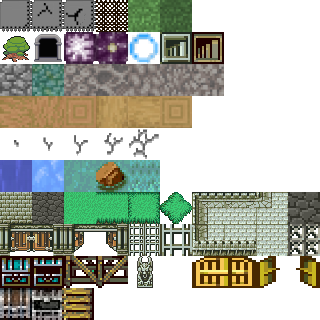
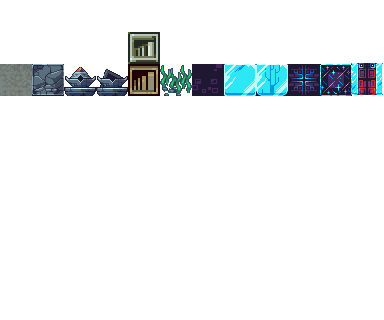
Обновление тайлсета для карты

diff --git a/utils/settings.py b/utils/settings.py
@@ -78,36 +78,60 @@ FADE_DURATION = 500
 
 FLOOR_THEMES = {
     1: {
-        "floor": (0, 5),
-        "wall": (0, 0),
-        "portal": (1, 1),
-        "chest_closed": (9, 0),
-        "chest_open": (9, 1),
-        "decoration": (1, 0),
+        "floor": (0, 0),
+        "wall": (0, 1),
+        "chest_closed": (0, 2),
+        "chest_open": (0, 3),
+        "portal": (0, 4),
+        "decoration": (0, 5),
+        "battle_floor": (0, 6),
+        "battle_wall": (0, 7),
+        "battle_decor": (0, 8),
+        "boss_floor": (0, 9),
+        "boss_wall": (0, 10),
+        "boss_decor": (0, 11),
     },
     2: {
-        "floor": (7, 8),
-        "wall": (6, 0),
-        "portal": (1, 5),
-        "chest_closed": (9, 0),
-        "chest_open": (9, 1),
-        "decoration": (8, 4),
+        "floor": (1, 0),
+        "wall": (1, 1),
+        "chest_closed": (1, 2),
+        "chest_open": (1, 3),
+        "portal": (1, 4),
+        "decoration": (1, 5),
+        "battle_floor": (1, 6),
+        "battle_wall": (1, 7),
+        "battle_decor": (1, 8),
+        "boss_floor": (1, 9),
+        "boss_wall": (1, 10),
+        "boss_decor": (1, 11),
     },
     3: {
-        "floor": (5, 1),
-        "wall": (5, 3),
-        "portal": (1, 6),
-        "chest_closed": (8, 0),
-        "chest_open": (8, 1),
-        "decoration": (6, 5),
+        "floor": (2, 0),
+        "wall": (2, 1),
+        "chest_closed": (2, 2),
+        "chest_open": (2, 3),
+        "portal": (2, 4),
+        "decoration": (2, 5),
+        "battle_floor": (2, 6),
+        "battle_wall": (2, 7),
+        "battle_decor": (2, 8),
+        "boss_floor": (2, 9),
+        "boss_wall": (2, 10),
+        "boss_decor": (2, 11),
     },
     4: {
-        "floor": (6, 9),
-        "wall": (2, 3),
-        "portal": (1, 2),
-        "chest_closed": (8, 0),
-        "chest_open": (8, 1),
-        "decoration": (4, 4),
+        "floor": (3, 0),
+        "wall": (3, 1),
+        "chest_closed": (3, 2),
+        "chest_open": (3, 3),
+        "portal": (3, 4),
+        "decoration": (3, 5),
+        "battle_floor": (3, 6),
+        "battle_wall": (3, 7),
+        "battle_decor": (3, 8),
+        "boss_floor": (3, 9),
+        "boss_wall": (3, 10),
+        "boss_decor": (3, 11),
     },
 }
 

diff --git a/map/tilemap.py b/map/tilemap.py
@@ -50,16 +50,16 @@ class Block(pygame.sprite.Sprite):
 
 class Ground(pygame.sprite.Sprite):
     TILE_MAP = {
-        ".": (0, 5),  # GRASS → Floor
-        ":": (2, 0),  # SAND → Cobblestone
-        "T": (3, 0),  # FOREST → Planks
-        "B": (2, 0),  # MOUNTAIN → Cobblestone
-        "S": (2, 0),  # SWAMP → Cobblestone
-        "~": (5, 2),  # WATER → Water
-        "L": (2, 0),  # LAVA → Cobblestone
-        "V": (3, 0),  # VILLAGE → Planks
-        "H": (3, 0),  # HOUSE → Planks
-        "N": (3, 0),  # NPC → Planks
+        ".": (4, 0),  # GRASS
+        ":": (5, 0),  # SAND
+        "T": (6, 0),  # FOREST
+        "B": (7, 0),  # MOUNTAIN
+        "S": (7, 1),  # SWAMP
+        "~": (8, 0),  # WATER
+        "L": (8, 1),  # LAVA
+        "V": (9, 0),  # VILLAGE
+        "H": (9, 1),  # HOUSE
+        "N": (9, 2),  # NPC
     }
 
     def __init__(self, game, x, y, terrain_type="."):
@@ -109,6 +109,7 @@ class DungeonEntrance(pygame.sprite.Sprite):
         self.y = y * TILESIZE
         self.width = TILESIZE
         self.height = TILESIZE
+        self.room_coord = None
 
         if game.mode == GameMode.DUNGEON:
             floor = getattr(game, "current_dungeon_floor", 1)
@@ -130,10 +131,14 @@ class DungeonEntrance(pygame.sprite.Sprite):
         pass
 
     def interact(self):
-        if self.game.mode == GameMode.WORLD:
-            self.game.enter_dungeon()
-        elif self.game.mode == GameMode.DUNGEON:
+        if self.game.mode == GameMode.DUNGEON:
+            if self.room_coord is not None:
+                room = self.game.dungeon_generator.rooms.get(self.room_coord)
+                if room and room.enemy_count > 0:
+                    return
             self.game.go_deeper()
+        elif self.game.mode == GameMode.WORLD:
+            self.game.enter_dungeon()
 
 
 class Decoration(pygame.sprite.Sprite):
@@ -178,7 +183,10 @@ class Water(pygame.sprite.Sprite):
         self.width = TILESIZE
         self.height = TILESIZE
 
-        self.image = game.terrain_spritesheet.get_image(5, 2, self.width, self.height)
+        row, col = Ground.TILE_MAP["~"]
+        self.image = game.terrain_spritesheet.get_image(
+            col * TILESIZE, row * TILESIZE, self.width, self.height
+        )
         self.rect = self.image.get_rect()
         self.rect.x = self.x
         self.rect.y = self.y